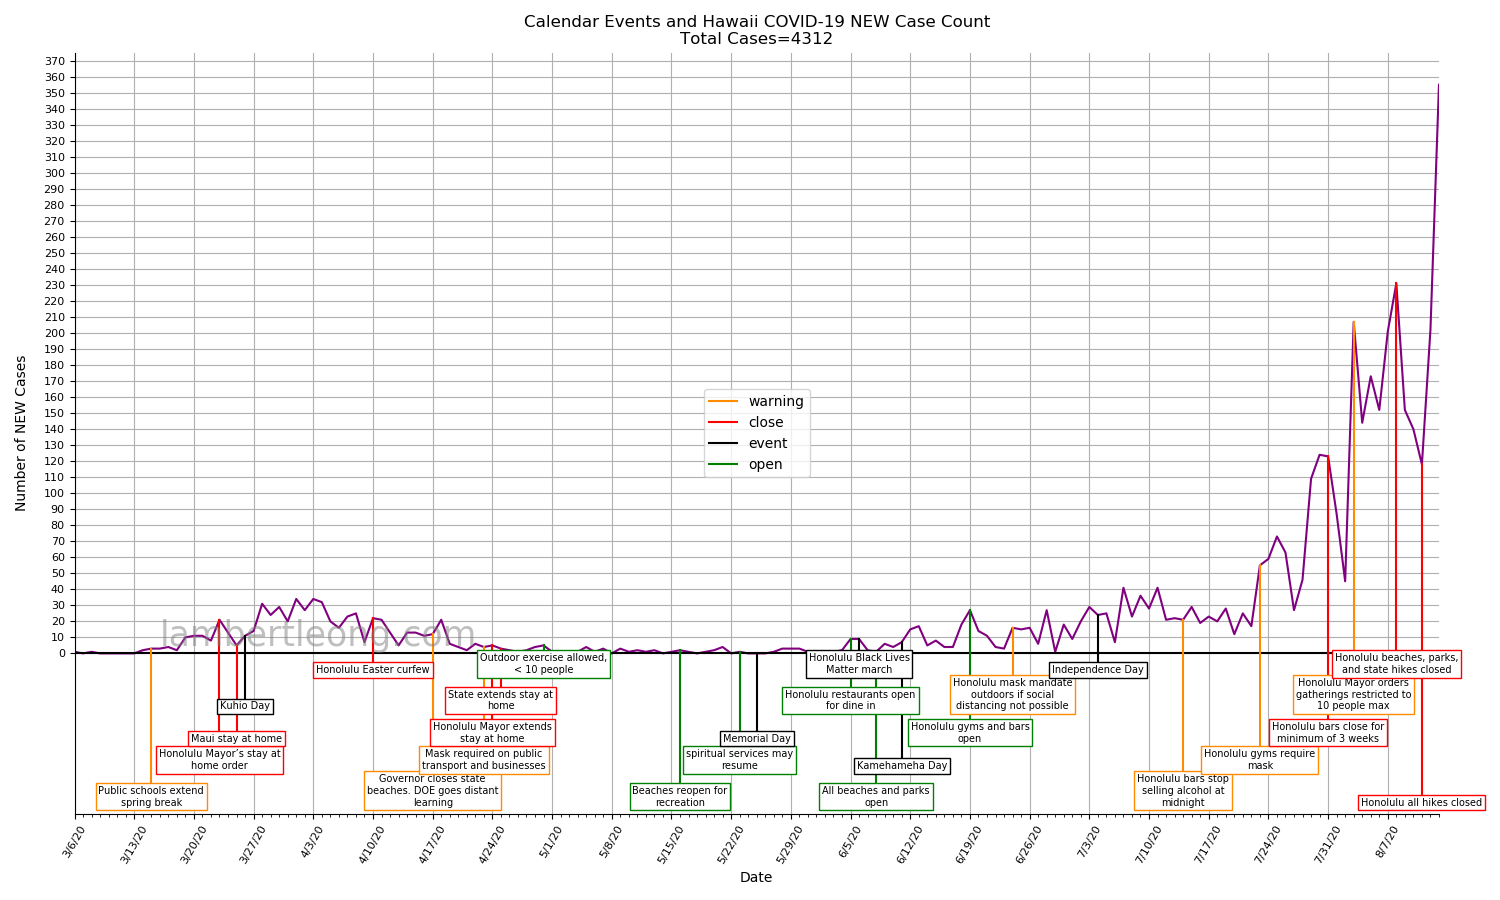
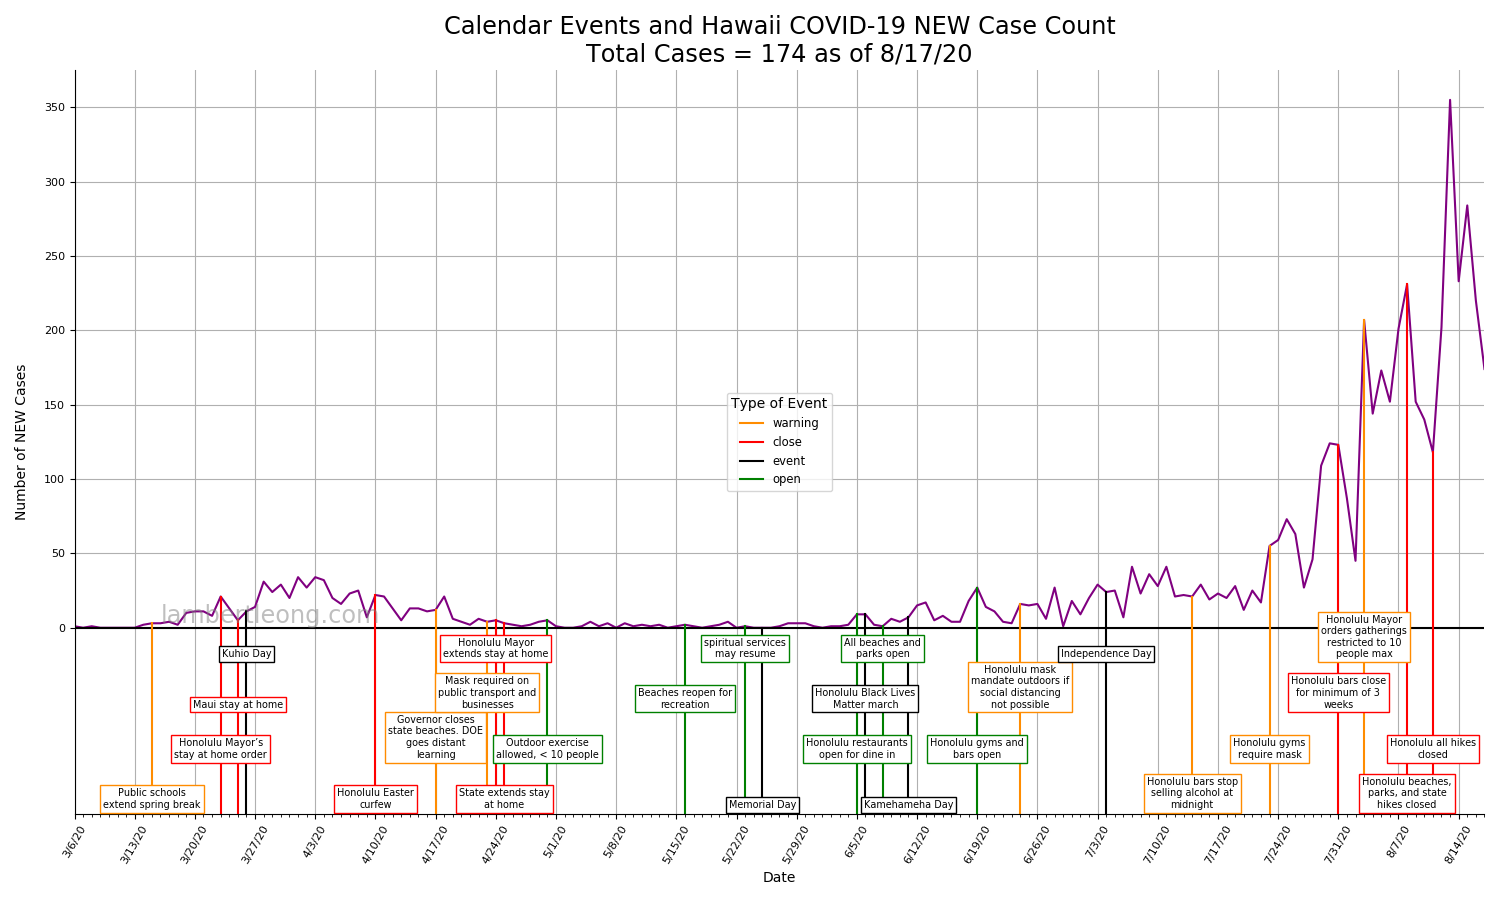
covid case update

Changed region(s): [[0.0, 0.0, 1.0, 0.9644], [0.4907, 0.9644, 0.5213, 0.9956]]

diff --git a/_posts/thoughts/2020-08-12-hawaii-covid19-timeline.md b/_posts/thoughts/2020-08-12-hawaii-covid19-timeline.md
@@ -2,7 +2,7 @@
 layout: post
 cover: assets/images/essays/hawaii_covid/case_count.gif
 title: What data says about Hawaii's COVID19 response
-date: 2020-08-14
+date: 2020-08-18
 categories: thoughts
 author: Lambert
 featured: True
